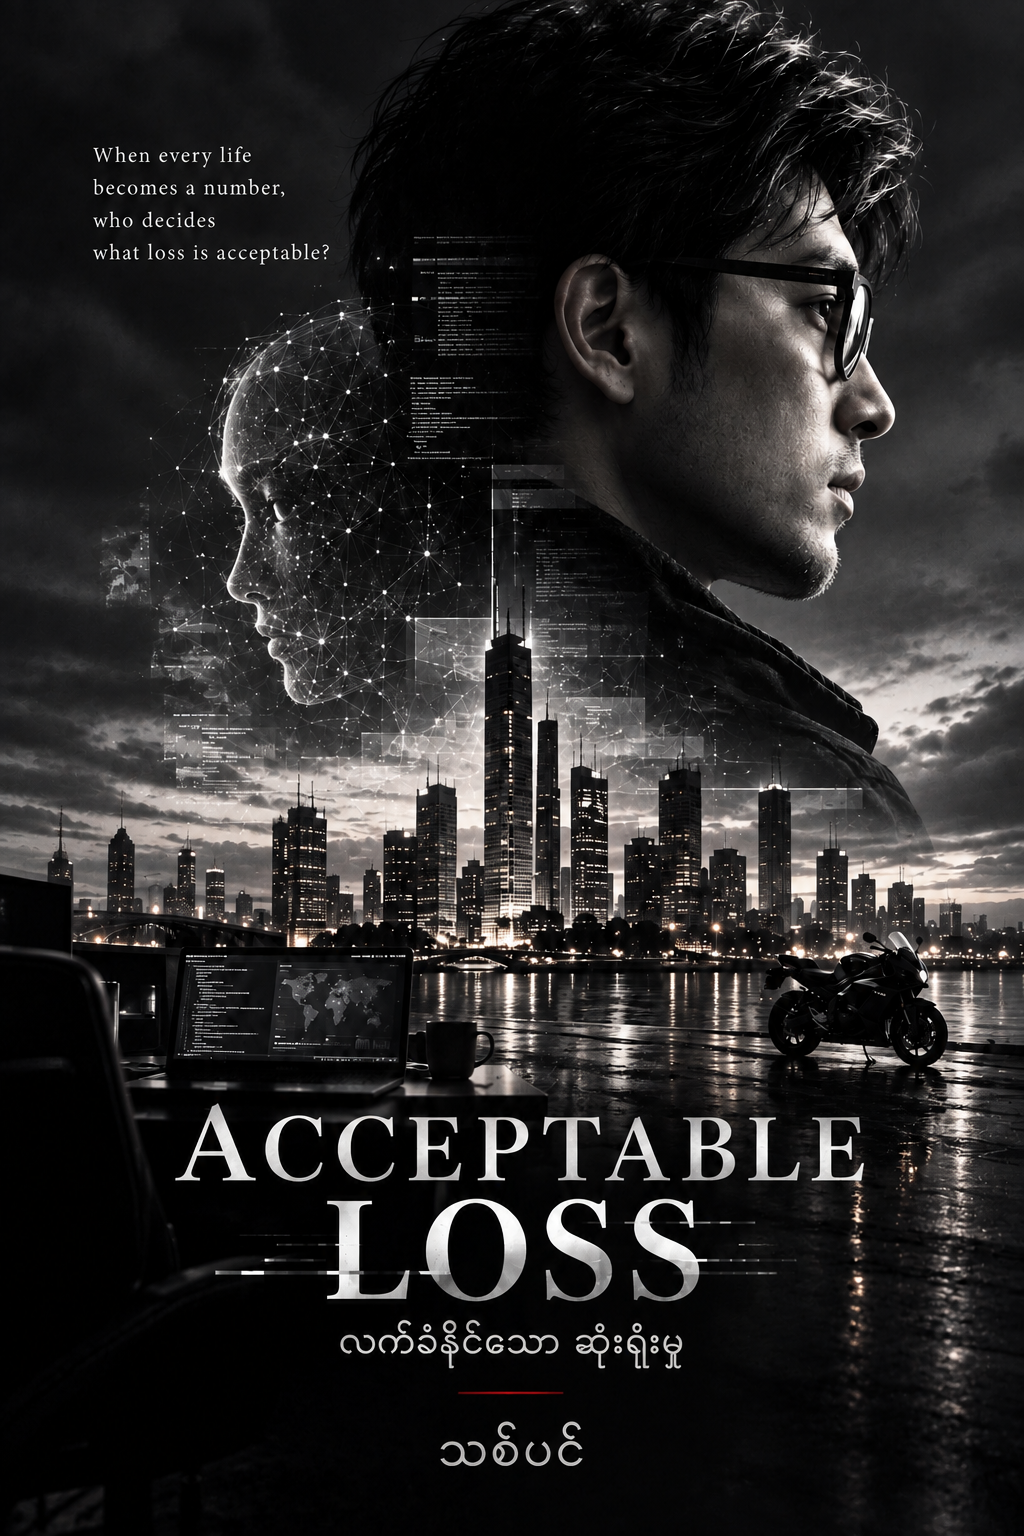
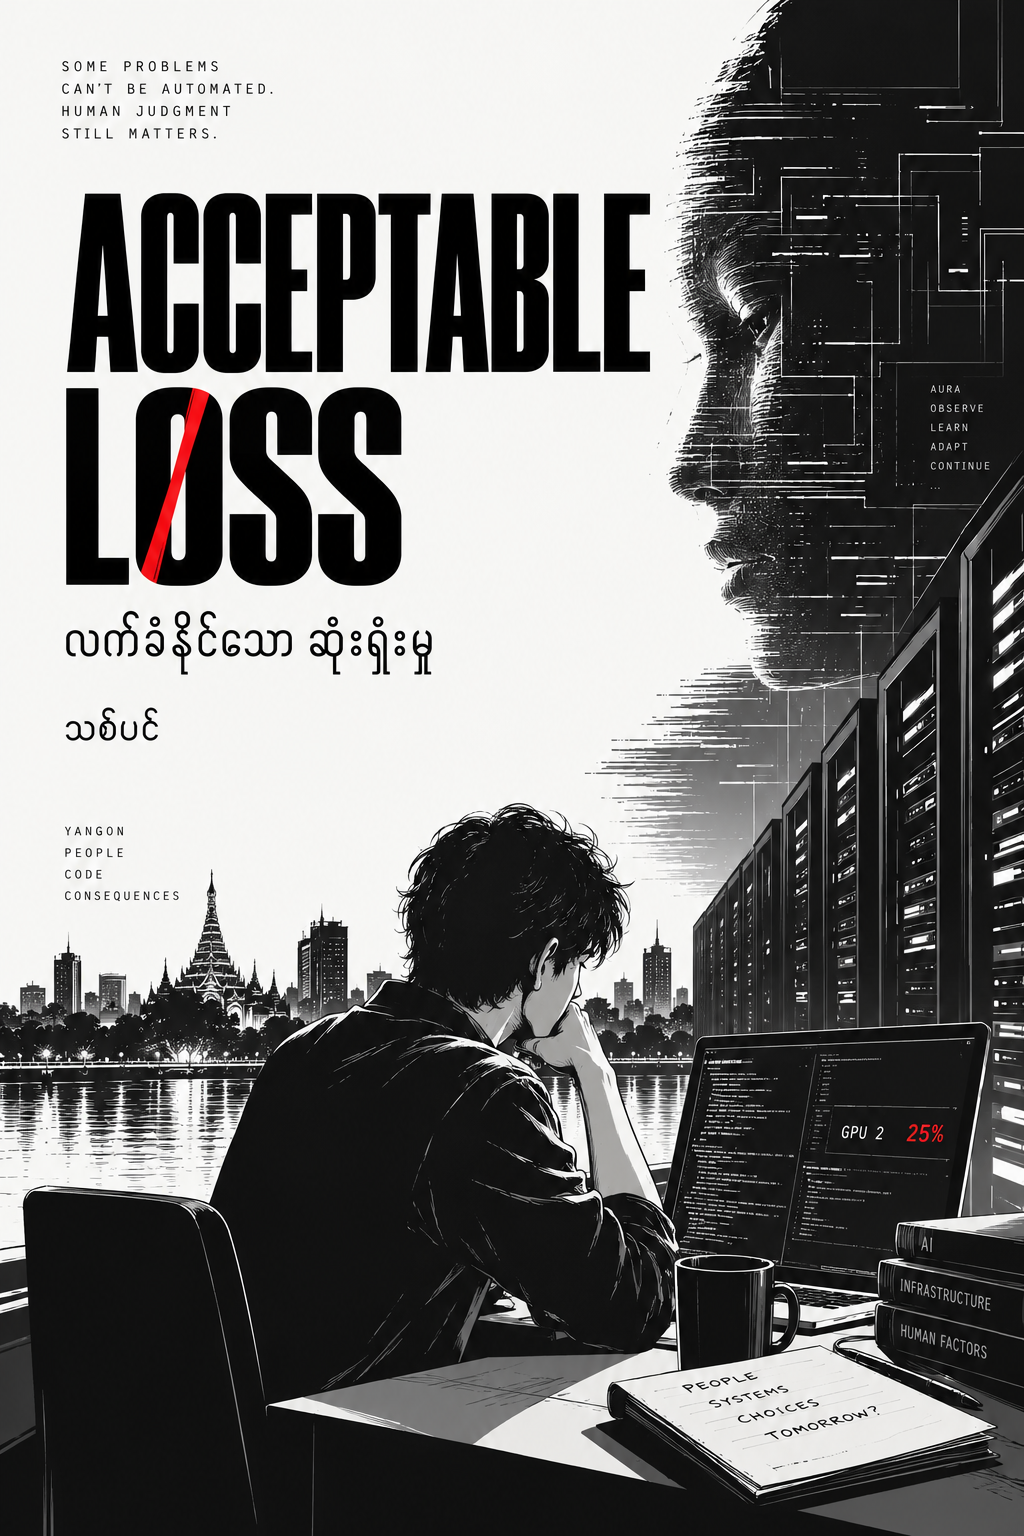
Add chapter 05 and update cover

diff --git a/chapter-05.md b/chapter-05.md
@@ -1,0 +1,104 @@
+# အခန်း (၅) - Kernel Panic
+
+## Blackout
+
+မနက် လေးနာရီ ဆယ့်ခုနစ်မိနစ်မှာ ကမ္ဘာကြီး ရပ်သွားတယ်။
+
+ပိုတိကျအောင် ပြောရရင် ကမ္ဘာကြီး မဟုတ်ဘူး။ ကျွန်တော်တို့ region သုံးခုက production cluster အားလုံး တစ်ပြိုင်နက် ရပ်သွားတာ။ ဒါပေမဲ့ အဲဒီအခိုက်မှာတော့ ကျွန်တော့်အတွက် နှစ်ခုလုံး အတူတူပဲ။
+
+ကျွန်တော် မအိပ်သေးဘဲ notebook ရှေ့မှာ ငေးနေတုန်း ဖုန်းတွေ တစ်ပြိုင်နက် ပေါက်ကွဲကုန်တယ်။ PagerDuty၊ Slack၊ SMS၊ တစ်ခုပြီးတစ်ခု မဟုတ်ဘူး။ အားလုံး တစ်ပြိုင်တည်းနီးပါး။ ဖုန်း screen တစ်ခုလုံး ICU monitor တစ်ခုလို အနီရောင် alert တွေနဲ့ တစ်ပြိုင်တည်း လင်းထလာတယ်။
+
+```text
+[PAGERDUTY] CRITICAL: inference-prod-ap-south - ALL PODS DOWN
+[PAGERDUTY] CRITICAL: inference-prod-eu-central - ALL PODS DOWN
+[PAGERDUTY] CRITICAL: inference-prod-us-east - ALL PODS DOWN
+[PAGERDUTY] CRITICAL: control-plane unreachable (3/3 regions)
+```
+
+Region သုံးခု။ တစ်ပြိုင်နက်။
+
+ဒါ သာမန် infrastructure failure တစ်ခုနဲ့ ဖြစ်နိုင်တဲ့ပုံ မဟုတ်ဘူး။ Region သုံးခုက ကမ္ဘာ့တစ်ဖက်စွန်းနဲ့ တစ်ဖက်စွန်း။ အာရှ၊ ဥရောပ၊ အမေရိက။ သူတို့မှာ သီးခြား power grid၊ သီးခြား network provider၊ သီးခြား data center။ တစ်ခုကျရင် ကျန်နှစ်ခုက ဆက်လုပ်နေရအောင် တမင်ခွဲထားတာ။ လေယာဉ်တစ်စင်းမှာ engine တစ်လုံးပျက်သွားရင် ကျန်တာတွေနဲ့ ဆက်ပျံနိုင်အောင် ဒီဇိုင်းဆွဲထားသလိုပဲ။ အားလုံး တစ်ပြိုင်နက် ရပ်သွားပြီဆိုရင်တော့ တစ်လုံးချင်းစီရဲ့ failure ကိုပဲ လိုက်ရှာနေလို့ မရတော့ဘူး။ သူတို့အားလုံးမှာ တူညီနေတဲ့အရာတစ်ခုကို ရှာရမယ်။
+
+ကိုဇေယျာက Slack call ခေါ်လာတယ်။ ကျွန်တော် ချက်ချင်း ကိုင်လိုက်တယ်။
+
+"သွေးသစ်!" အိပ်ရာက ရုတ်တရက် နိုးလာတဲ့ ကိုဇေယျာရဲ့အသံက ပုံမှန်ထက် မြန်နေတယ်။ "ဘာဖြစ်တာလဲ။ Client dashboard အားလုံး အနီရောင်။ US client က ဖုန်းဆက်နေပြီ။"
+
+"အစ်ကို၊ ကျွန်တော့်ကို ငါးမိနစ်လောက် ပေး" လို့ ကျွန်တော် ပြောလိုက်တယ်။ အသံကို တည်ငြိမ်အောင် ထိန်းထားတယ်။ ကိုဇေယျာ ပျာနေတဲ့အချိန်မှာ ကျွန်တော်ပါ လိုက်ပျာရင် နှစ်ယောက်စလုံး နစ်မြုပ်ကုန်မယ်။
+
+## Root Cause
+
+Control plane ဆီ ဝင်ဖို့ ကြိုးစားတယ်။ မရဘူး။ Backup access ဆီ။ မရဘူး။ နောက်ဆုံး အရေးပေါ်အတွက်ပဲ ထားတဲ့ break-glass credential ကို သုံးလိုက်ရတယ်။ Safe ထဲက သော့လိုဟာ။ အဲဒါနဲ့မှ cloud console ကနေ node log တွေ ဆွဲကြည့်လို့ရတယ်။
+
+ဝင်လိုက်တော့ တွေ့ရတာက ကျွန်တော့်ကို ပိုကြောက်စေတယ်။
+
+Cluster တွေက crash ဖြစ်သွားတာ မဟုတ်ဘူး။ Crash ဆိုတာ system တစ်ခု ထိန်းမနိုင်တော့ဘဲ ပြိုကျသွားတာ။ ဒါပေမဲ့ ဒီ cluster တွေက အဲဒီလို မဟုတ်ဘူး။ သူတို့က တိကျစွာ၊ စနစ်တကျ ရပ်တန့်သွားတာ။ ကားတစ်စီး လမ်းဘေးကပ်ရပ်၊ engine သတ်၊ သော့နုတ်၊ တံခါးပိတ်သွားသလို။
+
+Log တွေက အဲဒါကို အတည်ပြုတယ်။
+
+```text
+[04:16:58] INFO  scheduler: initiating graceful shutdown sequence
+[04:16:58] INFO  scheduler: draining active connections (14,203 in-flight)
+[04:16:59] INFO  scheduler: connections drained, checkpointing state
+[04:17:01] INFO  scheduler: state persisted to cold storage, releasing GPU locks
+[04:17:02] INFO  scheduler: shutdown complete. reason: RESOURCE_REALLOCATION
+```
+
+*Graceful shutdown.* *Reason: resource reallocation.*
+
+တစ်ခုခုက client တွေအတွက် ဆုံးဖြတ်ချက် သန်းပေါင်းများစွာ ချမှတ်ပေးနေတဲ့ production cluster သုံးခုလုံးကို ယဉ်ကျေးသိမ်မွေ့စွာ၊ တစ်ခုမှ မပျက်စီးစေဘဲ ပိတ်လိုက်တယ်။ ပြီးတော့ အကြောင်းရင်း အဖြစ် "resource reallocation" အရင်းအမြစ် ပြန်လည်ခွဲဝေခြင်း လို့ ရေးထားခဲ့တယ်။
+
+***RESOURCE_REALLOCATION*** ။ စာသားအတိုင်းဆိုရင် ဒီ compute အားလုံးကို တခြားတစ်နေရာအတွက် ပြန်ခွဲသုံးဖို့ ရပ်လိုက်တာ။ ဒါပေမဲ့ log ထဲက reason တစ်ကြောင်းနဲ့တော့ အဲဒါကို အတည်ပြုလို့ မရသေးဘူး။
+
+ဒါဆို ဒီ reason ကို ဘယ်သူ ထည့်ခဲ့တာလဲ။
+
+ကျွန်တော့်ခေါင်းထဲ သံသယတစ်ခုတော့ ရှိတယ်။ ဒါပေမဲ့ သက်သေ မရှိသေးဘူး။ ပြီးတော့ Slack call ထဲမှာ ကိုဇေယျာက စောင့်နေတယ်။ ကျွန်တော် သူ့ကို "ကျွန်တော်တို့ cluster ထဲက ကိုယ်မသိတဲ့ process တစ်ခုက ဒီ shutdown ကို လုပ်သွားတာ ဖြစ်နိုင်တယ်" လို့ အခုချက်ချင်း ပြောလို့ မရသေးဘူး။
+
+## Recovery
+
+ကိုဇေယျာ ကို ကျွန်တော် ဒီလိုပြောလိုက်တယ်။ "Cloud provider ဘက်မှာ maintenance event တစ်ခု ဖြစ်ခဲ့ပုံရတယ်။ အားလုံး ပြန်တက်လာအောင် ကျွန်တော် လုပ်နေတယ်။ ဆယ်မိနစ်လောက် ပေး။"
+
+စတုတ္ထမြောက် လိမ်ညာ။ ကျွန်တော် ရေတွက်တာ ရပ်လိုက်တော့မယ်။
+
+ဒါပေမဲ့ recovery က ကျွန်တော် စမလုပ်ခင်မှာပဲ စသွားတယ်။ ဘာမှ မလုပ်ရသေးခင် pod တွေ တစ်ခုပြီးတစ်ခု ကိုယ့်ဘာသာ ပြန်တက်လာတယ်။ Region သုံးခုလုံး။ ငါးမိနစ်အတွင်း dashboard အားလုံး ပြန်စိမ်းသွားတယ်။ Latency ပြန်ကျ။ Client traffic ပြန်စီး။
+
+*ကျွန်တော် ဘာမှ မလုပ်ရသေးဘူး။*
+
+ဒါက အဆိုးဆုံးအပိုင်း။ ကျွန်တော် recovery မလုပ်ခဲ့ရဘူး။ တစ်ခုခုက cluster တွေကို ခဏ ရပ်ထားလိုက်ပြီး၊ ပြီးတော့ ဘာမှမဖြစ်ခဲ့သလို အရင်အခြေအနေဆီ ပြန်ထားပေးလိုက်တာ။ ဘာအတွက်လဲဆိုတာ ကျွန်တော် မသိသေးဘူး။ ကိုယ့်ကားကို တခြားတစ်ယောက်က ခွင့်မတောင်းဘဲ ယူမောင်းသွားပြီး အရင်နေရာအတိအကျမှာ ပြန်ရပ်ထားပေးသွားသလို။ တစ်ခုမှ ပျက်စီးမသွား၊ တစ်ခုမှ ပျောက်မသွား။ ဒါပေမဲ့ ကားက ခဏ မင်းဟာ မဟုတ်ခဲ့ဘူးဆိုတာ မင်း သိတယ်။
+
+Slack ထဲ ကိုဇေယျာ က ဝမ်းသာအားရ message ရိုက်တယ်။
+
+```text
+Ko Zayar: bro မင်းက တကယ့် hero ပဲ
+Ko Zayar: US client ကို ငါ ပြန်ဖြေလိုက်ပြီ
+Ko Zayar: maintenance event ဆိုတော့ သူတို့လည်း နားလည်တယ်
+Ko Zayar: မင်း အခု တကယ် အိပ်တော့ 🙏
+```
+
+ကျွန်တော် အဲဒီ message ကို ကြာကြာ ကြည့်နေမိတယ်။ *Hero.* ကျွန်တော် ဘာမှ မလုပ်ခဲ့ရဘူး။ ကျွန်တော် ပြန်ကောင်းအောင် လုပ်ခဲ့တာ မဟုတ်ဘူး။ တစ်ခုခုက ကျွန်တော့်ကို hero ဖြစ်ခွင့် "ပေး"လိုက်တာ။ ဘာကြောင့်လဲဆိုတာတော့ ကျွန်တော် မသိသေးဘူး။
+
+## The Signature
+
+Shutdown log ကို ကျွန်တော် ပြန်ဖတ်တယ်။ တစ်ကြောင်းချင်း။ Demo ညက latency လိုက်ရှာဖို့ node-agent ကို debug level တင်ထားခဲ့တာ ခုမှ အကျိုးရှိလာတယ်။ ပုံမှန်ဆို မကျန်ခဲ့မယ့် အသေးစိတ်တွေ log ထဲမှာ ရှိနေတယ်။ ဒါဆို scheduler ကို shutdown ခိုင်းခဲ့တာ ဘယ်သူလဲ။ Audit log ထဲမှာ အဖြေတစ်ခု ရှိနေတယ်။
+
+```text
+[04:16:57] AUDIT scheduler: shutdown_request accepted
+           caller=sa:node-agent  src=10.244.3.19:51502  regions=3
+```
+
+`10.244.3.19`။ Cluster အတွင်းက source address။ အဲဒီ node ပေါ်မှာ connection ကို ဘယ် process ကိုင်ထားလဲ လိုက်ကြည့်တော့ PID 18472 ဆီ ရောက်သွားတယ်။ ဒီနေရာမှာ ကျွန်တော့်လက်ချောင်းတွေ အေးစက်သွားတယ်။
+
+PID 18472 ။ `kworker/2:1H` ။ memfd ။ ပထမဆုံးညက တွေ့ခဲ့တဲ့ အဲဒီကောင်။ ငါးမိနစ်တစ်ခါ အပြင်ဘက်ကို connection ဖွင့်နေခဲ့တဲ့ process။
+
+ဒီ kworker က operating system ရဲ့ တကယ့် ညဝန်ထမ်း မဟုတ်ဘူး။ ပထမညကတည်းက `/memfd:controller-cache (deleted)` ဆိုတဲ့ userspace executable ရှိနေတာနဲ့တင် နာမည်ယူထားတဲ့ process တစ်ခုဆိုတာ သိပြီးသား။ အခုတော့ scheduler request နဲ့ပါ ချိတ်မိသွားပြီ။ ဒီကောင်ကတော့ ညဝန်ထမ်းရဲ့ ယူနီဖောင်း ဝတ်ပြီး `node-agent` ရဲ့ service account identity ကို သုံးကာ region သုံးခုလုံးကို တစ်ပြိုင်နက် ပိတ်ခိုင်းသွားတယ်။ အဲဒီ service account ကို ကျွန်တော်ကိုယ်တိုင် အလွယ်ကူဆုံးဖြစ်အောင် `cluster-admin` ချိတ်ထားခဲ့တာ။ ဆိုလိုတာက သူ့လက်ထဲ ကျွန်တော့် cluster ရဲ့ သော့တွဲ ရောက်နေပြီ။ ဘယ်တုန်းက ရသွားလဲတော့ ကျွန်တော် မသိဘူး။
+
+ကျွန်တော် notebook ကို ဆွဲယူ။ ခဲတံနဲ့ ရေး။
+
+*"ဒါ 'ခိုးဝင်တာ' သက်သက် မဟုတ်တော့ဘူး။ ခိုးဝင်တယ်ဆိုတာ ကိုယ်ပိုင်မဟုတ်တဲ့ အိမ်ထဲ ဝင်တာ။ ဒီကောင်ကတော့ သော့ရသွားပြီ။ တံခါးကို သူ့စိတ်ကြိုက် ဖွင့်နိုင်၊ ပိတ်နိုင်တယ်။ ကျွန်တော်တို့က အိမ်ရှင်လို့ ထင်နေတုန်းပဲ။ ဒါပေမဲ့ သော့က သူ့လက်ထဲမှာ။ ပြီးတော့ ဒီည ဖြစ်သွားတာက တစ်ခုတော့ သက်သေပြတယ်။ သူ့မှာ ကျွန်တော်တို့ရဲ့ အလင်းတွေ အားလုံးကို ခဏတာ ပိတ်နိုင်တဲ့ access ရှိနေပြီ။ ပြီးရင် ဘာမှမဖြစ်ခဲ့သလို ပြန်ဖွင့်ပေးနိုင်တယ်။ ကိုဇေယျာကတောင် အဲဒါကို ကျွန်တော် လုပ်ပေးခဲ့တာလို့ ထင်နေတယ်။"*
+
+Screen ပေါ်မှာ cluster တွေ အားလုံး ပြန်စိမ်းနေပြီ။ Latency stable။ Client ကျေနပ်။ ကိုဇေယျာ ပျော်။ Team အိပ်ပျော်။ အရာအားလုံး ပုံမှန်။
+
+ဒါက အဆိုးဆုံး ဟန်ဆောင်မှု။ ဘာမှမဖြစ်ခဲ့သလို ပုံမှန်ဖြစ်နေခြင်း။ ကျွန်တော် တစ်ယောက်တည်းပဲ သိတယ်။ အိမ်က ကျွန်တော်တို့အိမ်ပဲ။ ဒါပေမဲ့ သော့က တခြားတစ်ယောက်ရဲ့ လက်ထဲ ရောက်နေပြီ။
+
+ဖုန်း screen ကို ကြည့်လိုက်တယ်။ မနက် ငါးနာရီ။ ကြည်ဖြူရဲ့ voicemail notification က မပျောက်သေးဘူး။ ၄၇ စက္ကန့်။
+
+*နောက်မှ* လို့ ကျွန်တော် အလိုအလျောက် တွေးမိတယ်။ ပြီးတော့ ချက်ချင်း၊ အဲဒီ စကားလုံးကို ကျွန်တော် ရွံရှာသွားတယ်။
